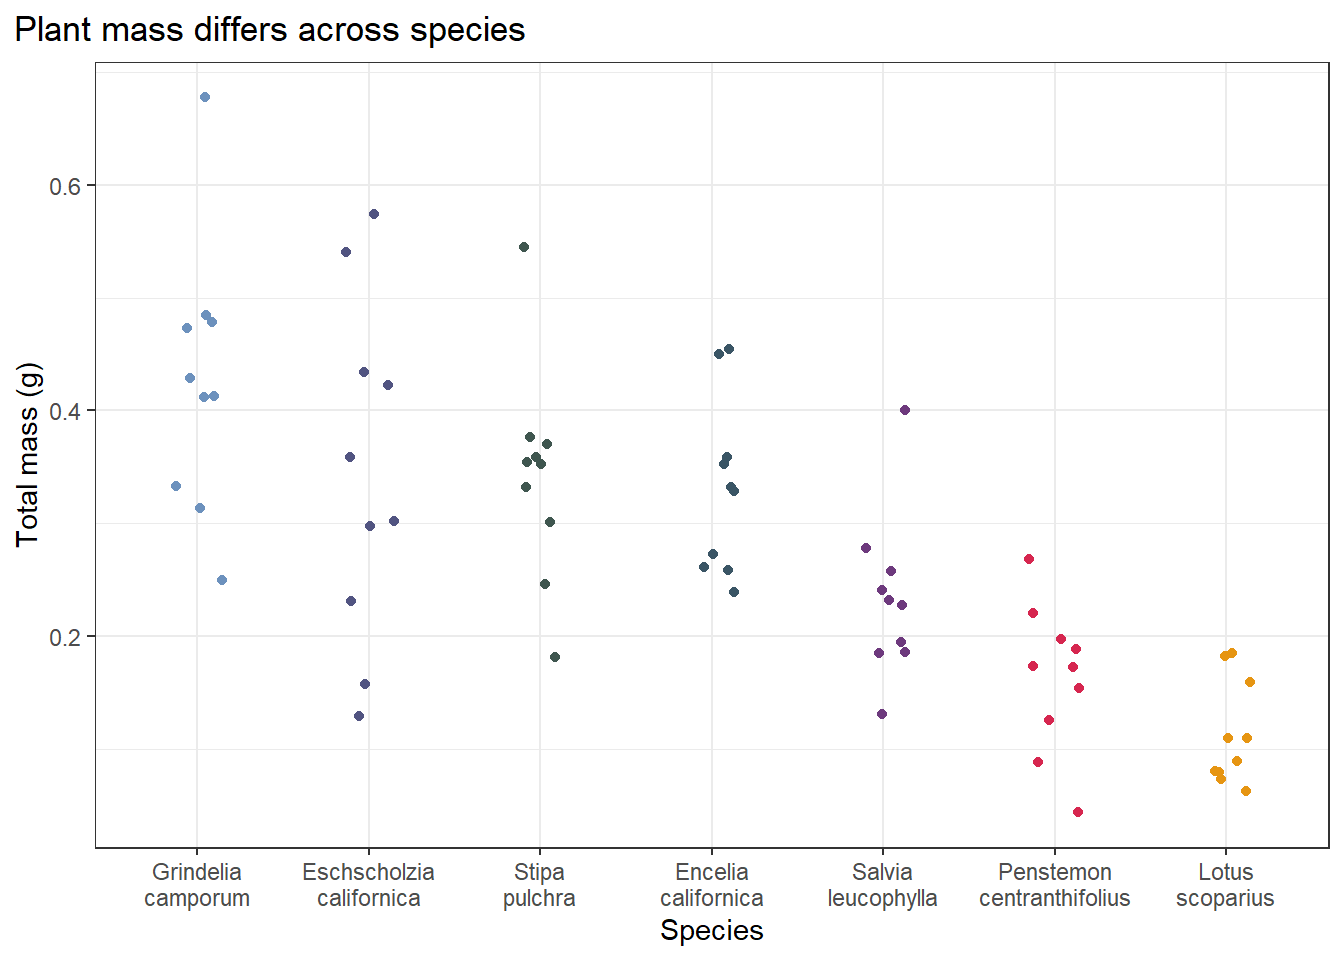
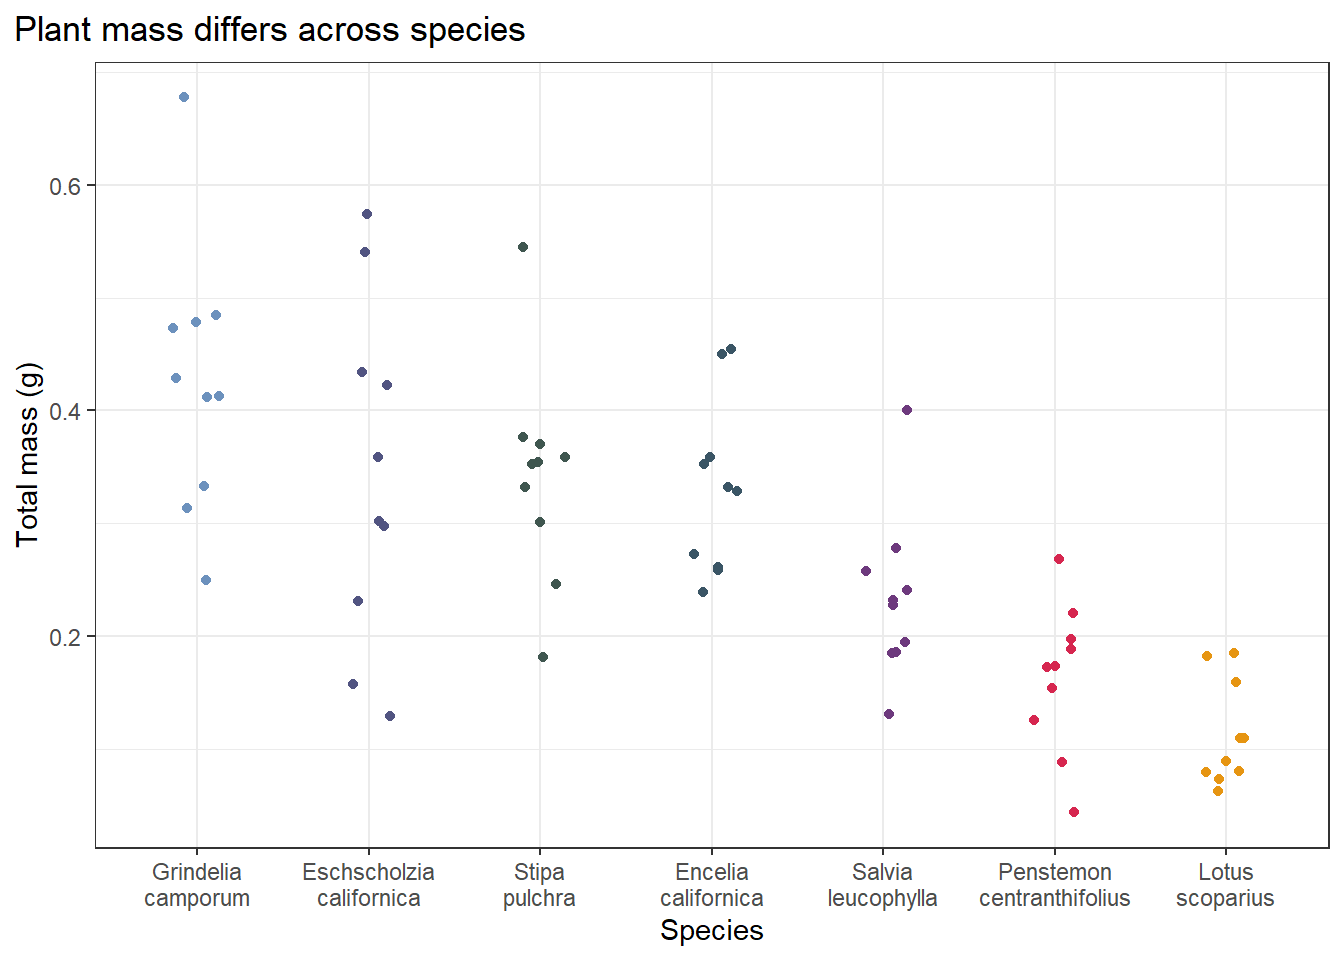
selected best model, looked at summary and wrote about the outcome

diff --git a/code/workshop-code.html b/code/workshop-code.html
@@ -300,16 +300,16 @@ pre > code.sourceCode > span > a:first-child::before { text-decoration: underlin
 <pre><code># A tibble: 10 × 4
    species_name               water_treatment    sla total_g
    &lt;fct&gt;                      &lt;fct&gt;            &lt;dbl&gt;   &lt;dbl&gt;
- 1 Penstemon centranthifolius Drought stressed 175.    0.188
- 2 Penstemon centranthifolius Well watered     154.    0.268
- 3 Stipa pulchra              Well watered     159.    0.353
- 4 Grindelia camporum         Well watered     191.    0.479
- 5 Salvia leucophylla         Well watered      99.7   0.241
- 6 Encelia californica        Drought stressed 180.    0.332
- 7 Salvia leucophylla         Drought stressed  96.1   0.278
- 8 Salvia leucophylla         Drought stressed  77.6   0.186
- 9 Eschscholzia californica   Well watered     157.    0.358
-10 Salvia leucophylla         Well watered     127.    0.258</code></pre>
+ 1 Eschscholzia californica   Drought stressed 109.   0.298 
+ 2 Eschscholzia californica   Well watered     127.   0.434 
+ 3 Penstemon centranthifolius Well watered     165.   0.197 
+ 4 Stipa pulchra              Well watered     161.   0.376 
+ 5 Salvia leucophylla         Drought stressed 110.   0.185 
+ 6 Lotus scoparius            Well watered     121.   0.0887
+ 7 Lotus scoparius            Drought stressed  90.9  0.0796
+ 8 Encelia californica        Drought stressed 192.   0.261 
+ 9 Stipa pulchra              Well watered     159.   0.353 
+10 Penstemon centranthifolius Drought stressed 179.   0.0436</code></pre>
 </div>
 </div>
 </section>
@@ -484,55 +484,136 @@ pre > code.sourceCode > span > a:first-child::before { text-decoration: underlin
 <h2 class="anchored" data-anchor-id="model-fitting">Model fitting</h2>
 <div class="cell">
 <div class="code-copy-outer-scaffold"><div class="sourceCode cell-code" id="cb11"><pre class="sourceCode r code-with-copy"><code class="sourceCode r"><span id="cb11-1"><a href="#cb11-1" aria-hidden="true" tabindex="-1"></a><span class="co"># model 0: null model</span></span>
-<span id="cb11-2"><a href="#cb11-2" aria-hidden="true" tabindex="-1"></a></span>
-<span id="cb11-3"><a href="#cb11-3" aria-hidden="true" tabindex="-1"></a></span>
-<span id="cb11-4"><a href="#cb11-4" aria-hidden="true" tabindex="-1"></a><span class="co"># model 1: all predictors</span></span>
-<span id="cb11-5"><a href="#cb11-5" aria-hidden="true" tabindex="-1"></a></span>
-<span id="cb11-6"><a href="#cb11-6" aria-hidden="true" tabindex="-1"></a></span>
-<span id="cb11-7"><a href="#cb11-7" aria-hidden="true" tabindex="-1"></a><span class="co"># model 2: SLA and water treatment</span></span>
+<span id="cb11-2"><a href="#cb11-2" aria-hidden="true" tabindex="-1"></a>model0 <span class="ot">&lt;-</span> <span class="fu">lm</span>(total_g <span class="sc">~</span> <span class="dv">1</span>,</span>
+<span id="cb11-3"><a href="#cb11-3" aria-hidden="true" tabindex="-1"></a>             <span class="at">data =</span> drought_exp_clean)</span>
+<span id="cb11-4"><a href="#cb11-4" aria-hidden="true" tabindex="-1"></a></span>
+<span id="cb11-5"><a href="#cb11-5" aria-hidden="true" tabindex="-1"></a><span class="co"># model 1: all predictors</span></span>
+<span id="cb11-6"><a href="#cb11-6" aria-hidden="true" tabindex="-1"></a>model1 <span class="ot">&lt;-</span> <span class="fu">lm</span>(total_g <span class="sc">~</span> sla <span class="sc">+</span> water_treatment <span class="sc">+</span> species_name,</span>
+<span id="cb11-7"><a href="#cb11-7" aria-hidden="true" tabindex="-1"></a>             <span class="at">data =</span> drought_exp_clean)</span>
 <span id="cb11-8"><a href="#cb11-8" aria-hidden="true" tabindex="-1"></a></span>
-<span id="cb11-9"><a href="#cb11-9" aria-hidden="true" tabindex="-1"></a></span>
-<span id="cb11-10"><a href="#cb11-10" aria-hidden="true" tabindex="-1"></a><span class="co"># model 3: SLA and species</span></span>
-<span id="cb11-11"><a href="#cb11-11" aria-hidden="true" tabindex="-1"></a></span>
+<span id="cb11-9"><a href="#cb11-9" aria-hidden="true" tabindex="-1"></a><span class="co"># model 2: SLA and water treatment</span></span>
+<span id="cb11-10"><a href="#cb11-10" aria-hidden="true" tabindex="-1"></a>model2 <span class="ot">&lt;-</span> <span class="fu">lm</span>(total_g <span class="sc">~</span> sla <span class="sc">+</span> water_treatment,</span>
+<span id="cb11-11"><a href="#cb11-11" aria-hidden="true" tabindex="-1"></a>             <span class="at">data =</span> drought_exp_clean)</span>
 <span id="cb11-12"><a href="#cb11-12" aria-hidden="true" tabindex="-1"></a></span>
-<span id="cb11-13"><a href="#cb11-13" aria-hidden="true" tabindex="-1"></a><span class="co"># model 4: water treatment and species</span></span>
-<span id="cb11-14"><a href="#cb11-14" aria-hidden="true" tabindex="-1"></a></span>
-<span id="cb11-15"><a href="#cb11-15" aria-hidden="true" tabindex="-1"></a></span>
-<span id="cb11-16"><a href="#cb11-16" aria-hidden="true" tabindex="-1"></a><span class="co"># model 5: SLA</span></span>
-<span id="cb11-17"><a href="#cb11-17" aria-hidden="true" tabindex="-1"></a></span>
-<span id="cb11-18"><a href="#cb11-18" aria-hidden="true" tabindex="-1"></a></span>
-<span id="cb11-19"><a href="#cb11-19" aria-hidden="true" tabindex="-1"></a><span class="co"># model 6: water treatment</span></span>
+<span id="cb11-13"><a href="#cb11-13" aria-hidden="true" tabindex="-1"></a><span class="co"># model 3: SLA and species</span></span>
+<span id="cb11-14"><a href="#cb11-14" aria-hidden="true" tabindex="-1"></a>model3 <span class="ot">&lt;-</span> <span class="fu">lm</span>(total_g <span class="sc">~</span> sla <span class="sc">+</span> species_name,</span>
+<span id="cb11-15"><a href="#cb11-15" aria-hidden="true" tabindex="-1"></a>             <span class="at">data =</span> drought_exp_clean)</span>
+<span id="cb11-16"><a href="#cb11-16" aria-hidden="true" tabindex="-1"></a></span>
+<span id="cb11-17"><a href="#cb11-17" aria-hidden="true" tabindex="-1"></a><span class="co"># model 4: water treatment and species</span></span>
+<span id="cb11-18"><a href="#cb11-18" aria-hidden="true" tabindex="-1"></a>model4 <span class="ot">&lt;-</span> <span class="fu">lm</span>(total_g <span class="sc">~</span> water_treatment <span class="sc">+</span> species_name,</span>
+<span id="cb11-19"><a href="#cb11-19" aria-hidden="true" tabindex="-1"></a>             <span class="at">data =</span> drought_exp_clean)</span>
 <span id="cb11-20"><a href="#cb11-20" aria-hidden="true" tabindex="-1"></a></span>
-<span id="cb11-21"><a href="#cb11-21" aria-hidden="true" tabindex="-1"></a></span>
-<span id="cb11-22"><a href="#cb11-22" aria-hidden="true" tabindex="-1"></a><span class="co"># model 7: species</span></span></code></pre></div><button title="Copy to Clipboard" class="code-copy-button"><i class="bi"></i></button></div>
+<span id="cb11-21"><a href="#cb11-21" aria-hidden="true" tabindex="-1"></a><span class="co"># model 5: SLA</span></span>
+<span id="cb11-22"><a href="#cb11-22" aria-hidden="true" tabindex="-1"></a>model5 <span class="ot">&lt;-</span> <span class="fu">lm</span>(total_g <span class="sc">~</span> sla,</span>
+<span id="cb11-23"><a href="#cb11-23" aria-hidden="true" tabindex="-1"></a>             <span class="at">data =</span> drought_exp_clean)</span>
+<span id="cb11-24"><a href="#cb11-24" aria-hidden="true" tabindex="-1"></a></span>
+<span id="cb11-25"><a href="#cb11-25" aria-hidden="true" tabindex="-1"></a><span class="co"># model 6: water treatment</span></span>
+<span id="cb11-26"><a href="#cb11-26" aria-hidden="true" tabindex="-1"></a>model6 <span class="ot">&lt;-</span> <span class="fu">lm</span>(total_g <span class="sc">~</span> water_treatment, <span class="co"># response ~ predictor + predictor</span></span>
+<span id="cb11-27"><a href="#cb11-27" aria-hidden="true" tabindex="-1"></a>             <span class="at">data =</span> drought_exp_clean)</span>
+<span id="cb11-28"><a href="#cb11-28" aria-hidden="true" tabindex="-1"></a></span>
+<span id="cb11-29"><a href="#cb11-29" aria-hidden="true" tabindex="-1"></a><span class="co"># model 7: species</span></span>
+<span id="cb11-30"><a href="#cb11-30" aria-hidden="true" tabindex="-1"></a>model7 <span class="ot">&lt;-</span> <span class="fu">lm</span>(total_g <span class="sc">~</span> species_name,</span>
+<span id="cb11-31"><a href="#cb11-31" aria-hidden="true" tabindex="-1"></a>             <span class="at">data =</span> drought_exp_clean)</span></code></pre></div><button title="Copy to Clipboard" class="code-copy-button"><i class="bi"></i></button></div>
 </div>
 </section>
 <section id="model-selection" class="level2">
 <h2 class="anchored" data-anchor-id="model-selection">Model selection</h2>
 <p>Insert code to use the <code>AICc()</code> function to calculate the AIC for each model.</p>
 <p>Arrange by decreasing AIC.</p>
+<div class="cell">
+<div class="code-copy-outer-scaffold"><div class="sourceCode cell-code" id="cb12"><pre class="sourceCode r code-with-copy"><code class="sourceCode r"><span id="cb12-1"><a href="#cb12-1" aria-hidden="true" tabindex="-1"></a><span class="fu">AICc</span>(</span>
+<span id="cb12-2"><a href="#cb12-2" aria-hidden="true" tabindex="-1"></a>  model0,</span>
+<span id="cb12-3"><a href="#cb12-3" aria-hidden="true" tabindex="-1"></a>  model1,</span>
+<span id="cb12-4"><a href="#cb12-4" aria-hidden="true" tabindex="-1"></a>  model2,</span>
+<span id="cb12-5"><a href="#cb12-5" aria-hidden="true" tabindex="-1"></a>  model3,</span>
+<span id="cb12-6"><a href="#cb12-6" aria-hidden="true" tabindex="-1"></a>  model4,</span>
+<span id="cb12-7"><a href="#cb12-7" aria-hidden="true" tabindex="-1"></a>  model5,</span>
+<span id="cb12-8"><a href="#cb12-8" aria-hidden="true" tabindex="-1"></a>  model6,</span>
+<span id="cb12-9"><a href="#cb12-9" aria-hidden="true" tabindex="-1"></a>  model7) <span class="sc">|&gt;</span> </span>
+<span id="cb12-10"><a href="#cb12-10" aria-hidden="true" tabindex="-1"></a>  <span class="fu">arrange</span>(AICc)</span></code></pre></div><button title="Copy to Clipboard" class="code-copy-button"><i class="bi"></i></button></div>
+<div class="cell-output cell-output-stdout">
+<pre><code>       df       AICc
+model4  9 -156.19595
+model1 10 -153.75361
+model3  9 -124.07569
+model7  8 -120.30191
+model2  4  -95.82521
+model5  3  -88.85180
+model6  3  -86.76661
+model0  2  -74.98036</code></pre>
+</div>
+</div>
 </section>
 <section id="model-diagnostics" class="level2">
 <h2 class="anchored" data-anchor-id="model-diagnostics">Model diagnostics</h2>
 <p>Insert code to look at the diagnostic plots for the best model.</p>
+<div class="cell">
+<div class="code-copy-outer-scaffold"><div class="sourceCode cell-code" id="cb14"><pre class="sourceCode r code-with-copy"><code class="sourceCode r"><span id="cb14-1"><a href="#cb14-1" aria-hidden="true" tabindex="-1"></a><span class="fu">par</span>(<span class="at">mfrow =</span> <span class="fu">c</span>(<span class="dv">2</span>,<span class="dv">2</span>)) <span class="co"># display plots in a 2x2 grid</span></span>
+<span id="cb14-2"><a href="#cb14-2" aria-hidden="true" tabindex="-1"></a><span class="fu">plot</span>(model4) <span class="co"># plot model 4 diagnostics</span></span></code></pre></div><button title="Copy to Clipboard" class="code-copy-button"><i class="bi"></i></button></div>
+<div class="cell-output-display">
+<div>
+<figure class="figure">
+<p><img src="workshop-code_files/figure-html/residual%20plot%20for%20model%204-1.png" class="img-fluid figure-img" width="672"></p>
+</figure>
+</div>
+</div>
+</div>
+<p>Diagnostic plots look good.</p>
+<p>Residuals (standing in for errors) look normally distributed based on the QQ plot.</p>
+<p>Residuals look homoscedatic (have constant variance) based on Resdiuals vs.&nbsp;Fitted plor and Scale-Location plot.</p>
+<p>No outliers influencing model estimates of coefficients.</p>
 </section>
 <section id="summary" class="level2">
 <h2 class="anchored" data-anchor-id="summary">Summary</h2>
 <p>Insert code to display the summary for the best model.</p>
+<div class="cell">
+<div class="code-copy-outer-scaffold"><div class="sourceCode cell-code" id="cb15"><pre class="sourceCode r code-with-copy"><code class="sourceCode r"><span id="cb15-1"><a href="#cb15-1" aria-hidden="true" tabindex="-1"></a><span class="fu">summary</span>(model4)</span></code></pre></div><button title="Copy to Clipboard" class="code-copy-button"><i class="bi"></i></button></div>
+<div class="cell-output cell-output-stdout">
+<pre><code>
+Call:
+lm(formula = total_g ~ water_treatment + species_name, data = drought_exp_clean)
+
+Residuals:
+      Min        1Q    Median        3Q       Max 
+-0.157087 -0.046953 -0.003733  0.041244  0.192657 
+
+Coefficients:
+                                       Estimate Std. Error t value Pr(&gt;|t|)    
+(Intercept)                             0.05455    0.02451   2.225  0.02973 *  
+water_treatmentWell watered             0.11695    0.01733   6.746 5.90e-09 ***
+species_namePenstemon centranthifolius  0.05003    0.03243   1.543  0.12799    
+species_nameSalvia leucophylla          0.12020    0.03243   3.706  0.00045 ***
+species_nameEncelia californica         0.21774    0.03243   6.714 6.70e-09 ***
+species_nameStipa pulchra               0.22881    0.03243   7.055 1.72e-09 ***
+species_nameEschscholzia californica    0.23164    0.03243   7.143 1.22e-09 ***
+species_nameGrindelia camporum          0.31335    0.03243   9.662 5.53e-14 ***
+---
+Signif. codes:  0 '***' 0.001 '**' 0.01 '*' 0.05 '.' 0.1 ' ' 1
+
+Residual standard error: 0.07252 on 62 degrees of freedom
+Multiple R-squared:  0.7535,    Adjusted R-squared:  0.7257 
+F-statistic: 27.08 on 7 and 62 DF,  p-value: &lt; 2.2e-16</code></pre>
+</div>
+</div>
 <p><strong>What are the reference levels?</strong></p>
+<p>Drought treatment and Lotus scoparius because they are not listed in the summary output.</p>
 <p><strong>What does the <code>(Intercept)</code> represent?</strong></p>
+<p>Estimated mass for drought stressed lotus scoparius 0.055 g +/- 0.02 (SE)</p>
 <p><strong>What does <code>water_treatmentWell watered</code> represent?</strong></p>
+<p>This is the model prediction for thte difference in Lotus scoparius mass between the well watered and drought stressed treatments. The model predicts hte difference is 0.12 +/- 0.02 (SE) g</p>
 <p><strong>What does <code>species_namePenstemon centranthifolius</code> represent?</strong></p>
+<p>This is the model prediction for the difference between Penstemon centranthifolius mass in the well watered treatemtent and Lotus scoparius mass in the well watered treatement. The model predicts sthat this differenc eis 0.05 +/- 0.03 (SE) g.</p>
 <p><strong>What does <code>species_nameEschscholzia californica</code> represent?</strong></p>
+<p>This is hte model prediciotn for the difference between Eschscholzia californica mass in the well watered treatment and Lotus scoparius in the well watered treatment. The model predicts that this difference is 0.23 +/- 0.03 (SE) g.</p>
 </section>
 <section id="stop-and-think-what-does-this-model-mean" class="level2">
 <h2 class="anchored" data-anchor-id="stop-and-think-what-does-this-model-mean">Stop and think: what does this model mean?</h2>
 <p><strong>What is the best model?</strong></p>
-<p>[insert your response here]</p>
+<p>The best model includes water treatment and species as predictors.</p>
 <p><strong>How much variation in the response (total mass, in grams) does this model explain?</strong></p>
-<p>[insert your response here]</p>
+<p>This model explains 72% of the variation in plant mass.</p>
 <p><strong>How do we interpret the effects of the predictors on the response variable (again, total mass in grams)?</strong></p>
-<p>[insert your response here]</p>
+<p>Water treatment influences plant mass. Species influences plant mass.</p>
 </section>
 </section>
 <section id="model-predictions" class="level1">
